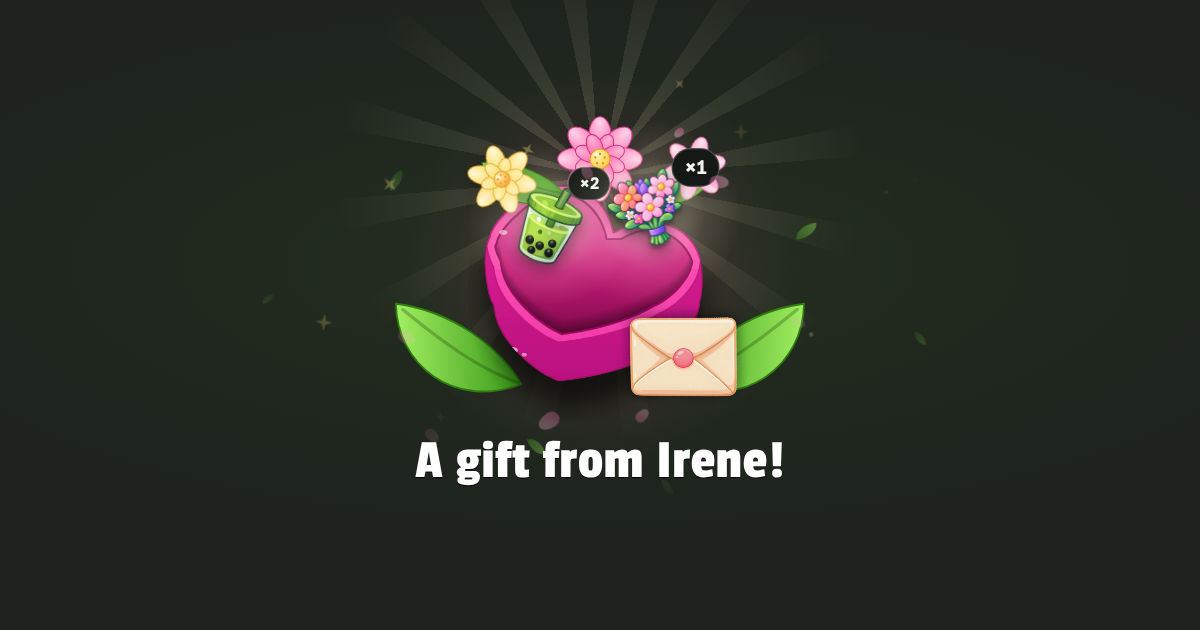
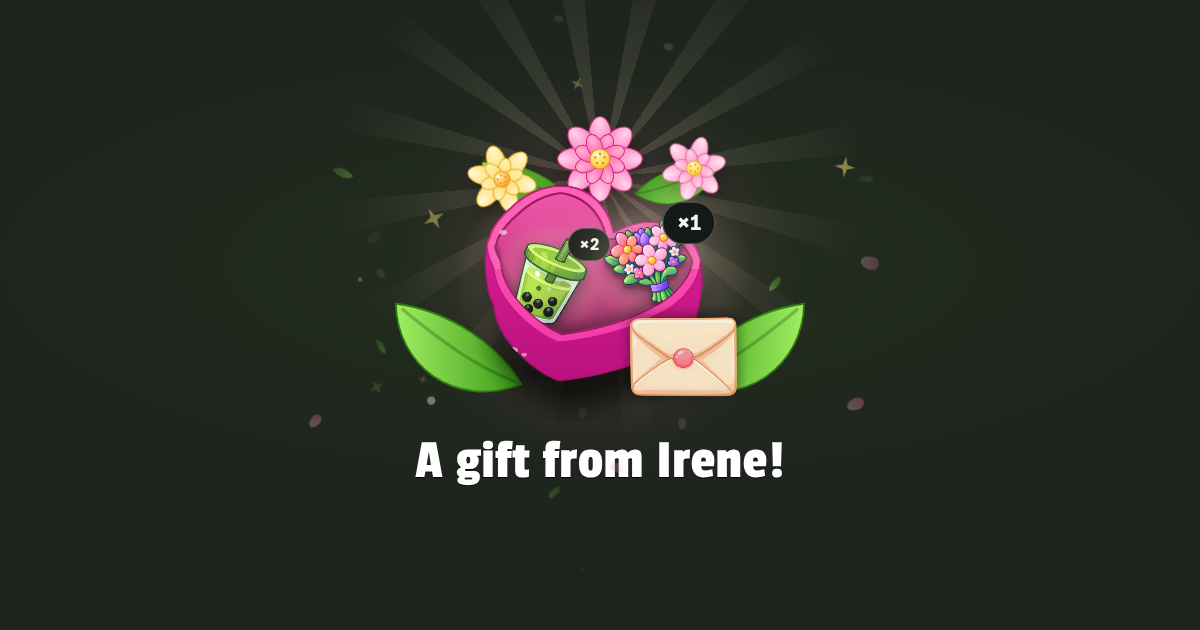
Gifts rest naturally in the box; badges on each gift; flowers behind; no pencil
Ruby's direction:
- Remove the pencil on the note; "To: Sage" aligns with the message
- Gifts sit inside the box (lower, bottoms behind the front wall),
  larger, with each x2/x1 badge on its own gift
- Flowers bloom behind the box instead of on top of it

Claude-Session: https://claude.ai/code/session_011dLXwTGZjhxJhxRuHb4EoR

diff --git a/prototype/src/components/GiftItems.tsx b/prototype/src/components/GiftItems.tsx
@@ -2,12 +2,13 @@ import { motion } from 'motion/react'
 import { ITEMS, type GiftItem } from '../data'
 
 /**
- * Where each gift sits inside the open box (percent of the gift area). The box's front wall
- * is drawn over their lower part, so they read as sitting in the box.
+ * Where each gift sits inside the open box (percent of the gift area). They sit low, so the box's
+ * front wall covers their lower part and they read as resting in the box, poking out of the top.
+ * `badge` puts the ×N right on the gift's top-right corner (measured from the art's visible bounds).
  */
-const SPOTS: Record<string, { left: string; top: string; width: string }> = {
-  boba: { left: '9%', top: '9%', width: '44%' },
-  bouquet: { left: '44%', top: '3%', width: '49%' },
+const SPOTS: Record<string, { left: string; top: string; width: string; badge: { left: string; top: string } }> = {
+  boba: { left: '6%', top: '27%', width: '50%', badge: { left: '64%', top: '12%' } },
+  bouquet: { left: '42%', top: '21%', width: '54%', badge: { left: '62%', top: '8%' } },
 }
 
 /** The gifts inside the open box. `instant`: already sitting there (final layout), no pop. */
@@ -28,7 +29,7 @@ function PoppingItem({ item, index, instant }: { item: GiftItem; index: number; 
   return (
     <motion.div
       className="rise"
-      style={spot}
+      style={{ left: spot.left, top: spot.top, width: spot.width }}
       initial={instant ? false : { y: '75%', scale: 0, opacity: 0 }}
       animate={{ y: '0%', scale: instant ? 1 : [0, 1.3, 0.9, 1.06, 1], opacity: 1 }}
       transition={{
@@ -47,6 +48,7 @@ function PoppingItem({ item, index, instant }: { item: GiftItem; index: number; 
       </motion.div>
       <motion.span
         className="qty-badge"
+        style={spot.badge}
         initial={instant ? false : { scale: 0 }}
         animate={{ scale: instant ? 1 : [0, 1.3, 1] }}
         transition={{ duration: 0.4, delay: delay + 0.55, ease: 'easeOut' }}

diff --git a/prototype/src/styles.css b/prototype/src/styles.css
@@ -303,7 +303,7 @@ img {
   z-index: 1;
 }
 .gift-sublayer--bloom {
-  z-index: 3;
+  z-index: 1; /* behind the box: the flowers peek out from behind it */
 }
 .box-img {
   position: absolute;
@@ -421,8 +421,6 @@ img {
 }
 .qty-badge {
   position: absolute;
-  right: -2%;
-  top: 2%;
   z-index: 1;
   padding: 4px 10px;
   border-radius: 20px;
@@ -673,13 +671,6 @@ img {
   height: 1px;
   background: rgba(0, 0, 0, 0.06);
 }
-.note-pencil {
-  position: absolute;
-  left: 3.38cqw;
-  top: 4.79cqw;
-  width: 5.07cqw;
-  height: 5.07cqw;
-}
 .note-to,
 .note-from {
   position: absolute;
@@ -689,7 +680,7 @@ img {
   letter-spacing: 0.037cqw;
 }
 .note-to {
-  left: 9.86cqw;
+  left: 3.1cqw; /* aligned with the message text */
   top: 5.92cqw;
 }
 .note-msg {

diff --git a/prototype/src/components/Note.tsx b/prototype/src/components/Note.tsx
@@ -62,16 +62,6 @@ function NoteFace() {
       {LINES.map((t) => (
         <div key={t} className="note-line" style={{ top: cq(t) }} />
       ))}
-      <svg className="note-pencil" viewBox="0 0 24 24" aria-hidden>
-        <path
-          d="M4 20l1.2-4.6L15.8 4.8a2 2 0 0 1 2.8 0l.6.6a2 2 0 0 1 0 2.8L8.6 18.8 4 20z M13.8 6.8l3.4 3.4"
-          fill="none"
-          stroke="#000"
-          strokeWidth="1.6"
-          strokeLinejoin="round"
-          strokeLinecap="round"
-        />
-      </svg>
       <p className="note-to">To: {NOTE.to}</p>
       <p className="note-msg">{NOTE.message}</p>
       <p className="note-from">- {NOTE.from}</p>

diff --git a/CLAUDE.md b/CLAUDE.md
@@ -38,7 +38,7 @@ Hard requirements:
 
 ## Prototype status (2026-10-04)
 
-- Built and working: idle screen matching Figma, sprout → unboxing (lid pops off, flowers along the back rim, gifts pop up INSIDE the open heart box with a scale-in and stay there with a glow + gentle bob), envelope → letter card slips out and waits for a tap → fades into the note reading view, open state (arrives with the gifts in the open box, then the lid drops back on: closed formal box; items list; note with rocking sticker underneath; Send a gift back / Visit Irene's garden toasts, close, replay), skip with a 450 ms double-tap guard, keyboard, reduced motion, phone / tablet / desktop layouts.
+- Built and working: idle screen matching Figma, sprout → unboxing (lid pops off, flowers bloom BEHIND the box, gifts pop up and rest INSIDE the open heart box (bottoms behind the front wall) with a scale-in, glow + gentle bob, ×N badges on each gift), envelope → letter card slips out and waits for a tap → fades into the note reading view, open state (arrives with the gifts in the open box, then the lid drops back on: closed formal box; items list; note with rocking sticker underneath; Send a gift back / Visit Irene's garden toasts, close, replay), skip with a 450 ms double-tap guard, keyboard, reduced motion, phone / tablet / desktop layouts.
 - Code map: `src/timeline.ts` (step timings), `src/App.tsx` (state machine), `components/Stage.tsx` (idle → bloom → letter/note overlay), `Gift.tsx`, `GiftItems.tsx` (gifts inside the box), `Letter.tsx` (from/sending-to card), `Note.tsx`, `OpenView.tsx`, `ClosedView.tsx`, `Particles.tsx`.
 - Deploy: `.github/workflows/deploy-prototype.yml` publishes `prototype/dist` to https://rubywu-ux.github.io/pocket-worlds-oa/ on every push. Pages is on (Source = GitHub Actions) and the site is live. Claude can't change Pages settings via the API.
 - Art in `prototype/src/assets/` is Ruby's 4× Figma exports, converted to WebP (≈390 KB total), imported in `data.ts` so builds give each file a content hash (no stale browser cache), and preloaded in `main.tsx`. If art changes, regenerate `public/og.png` (link preview, 1200×630 of the bloomed state).
@@ -82,4 +82,4 @@ The Reception + Opening prototype (React + Motion + Vite) is live at https://rub
 ## Session log
 
 - 2026-10-04: Created the repo and linked it to the local folder. Wrote the README (brief summary, checklist, AI-use and hours logs). Compared prototype tool options (see Decisions). Added this handoff file.
-- 2026-10-04 (session 1, account 1): Ruby wrote her prototype direction (now `prototype/SPEC.md`). Built the full prototype and the Pages deploy workflow. Changed the first bloom concept (heart split in two) to flowers growing out of a whole heart, because a split heart reads as heartbreak. Pages switched on; live at https://rubywu-ux.github.io/pocket-worlds-oa/. Swapped in Ruby's 4× art (WebP). Synced to Ruby's updated FINAL screens (Sweetheart Box shown, then removed per Ruby: Irene's side only); unboxing added per Ruby; per Ruby: gifts sit inside the box and are emphasized, the gift box returns to its closed formal state on the final screen (a mistaken note→letter fold-back was reverted), fixed hover bug (envelope swapped behind the box: `.gift { isolation: isolate }`); on phones the reply buttons are pinned over a bottom scrim so they stay visible. Per Ruby: the letter card slips out of the envelope first and fades into the note on tap (see SPEC §2). Per Ruby: replaced Irene's avatar with her clean rounded-square version (no dashed frame), shown as a rounded square, and enlarged it in the idle "from Irene" line and the "Irene left you a note" heading.
+- 2026-10-04 (session 1, account 1): Ruby wrote her prototype direction (now `prototype/SPEC.md`). Built the full prototype and the Pages deploy workflow. Changed the first bloom concept (heart split in two) to flowers growing out of a whole heart, because a split heart reads as heartbreak. Pages switched on; live at https://rubywu-ux.github.io/pocket-worlds-oa/. Swapped in Ruby's 4× art (WebP). Synced to Ruby's updated FINAL screens (Sweetheart Box shown, then removed per Ruby: Irene's side only); unboxing added per Ruby; per Ruby: gifts sit inside the box and are emphasized, the gift box returns to its closed formal state on the final screen (a mistaken note→letter fold-back was reverted), fixed hover bug (envelope swapped behind the box: `.gift { isolation: isolate }`); per Ruby: no pencil on the note, gifts rest naturally in the box with badges on each gift, flowers behind the box; on phones the reply buttons are pinned over a bottom scrim so they stay visible. Per Ruby: the letter card slips out of the envelope first and fades into the note on tap (see SPEC §2). Per Ruby: replaced Irene's avatar with her clean rounded-square version (no dashed frame), shown as a rounded square, and enlarged it in the idle "from Irene" line and the "Irene left you a note" heading.

diff --git a/prototype/SPEC.md b/prototype/SPEC.md
@@ -7,7 +7,7 @@ Ruby's direction for the Part 4 prototype (2026-10-04). This is the source of tr
 **The gift** (from Ruby's Customization & Checkout designs):
 - Gift style: *sweetheart* (pink heart box, yellow ribbon) + envelope
 - Contents Sage receives: Matcha Boba ×2, Summertime Bouquet ×1. (The Sweetheart Box gift style appears only on Irene's side, at Checkout; Ruby, 2026-10-04.)
-- Note: light-green ruled note, "To: Sage", "So nice to see you on here again! Love your creations as always." — Irene
+- Note: light-green ruled note, "To: Sage" (no pencil icon, left-aligned with the message; Ruby, 2026-10-04), "So nice to see you on here again! Love your creations as always." — Irene
 - Sticker on the note: Matcha Boba (the "+1 sticker")
 - Postage: *lovely* (heart)
 
@@ -19,6 +19,7 @@ Ruby's direction for the Part 4 prototype (2026-10-04). This is the source of tr
 - **Updated 2026-10-04:** show the **unboxing** of the box with the gifts popping out of it. When the gifts emerge, they get a **popping scale-in** motion.
 - **Updated 2026-10-04:** the gifts stay **inside** the box (not floating outside it), scaled to fit and sitting nicely in it. The gifts are the main point and should be emphasized.
 - At the start, the envelope must stay fixed in front of the box (no movement on hover).
+- **Updated 2026-10-04:** the gifts sit **naturally inside** the box (resting in it, bottoms hidden by the front wall). The **×2 / ×1** badges sit right on their own gift. The flowers bloom **behind** the box, not on top of it (less distracting).
 
 ## 2. Note reveal
 
